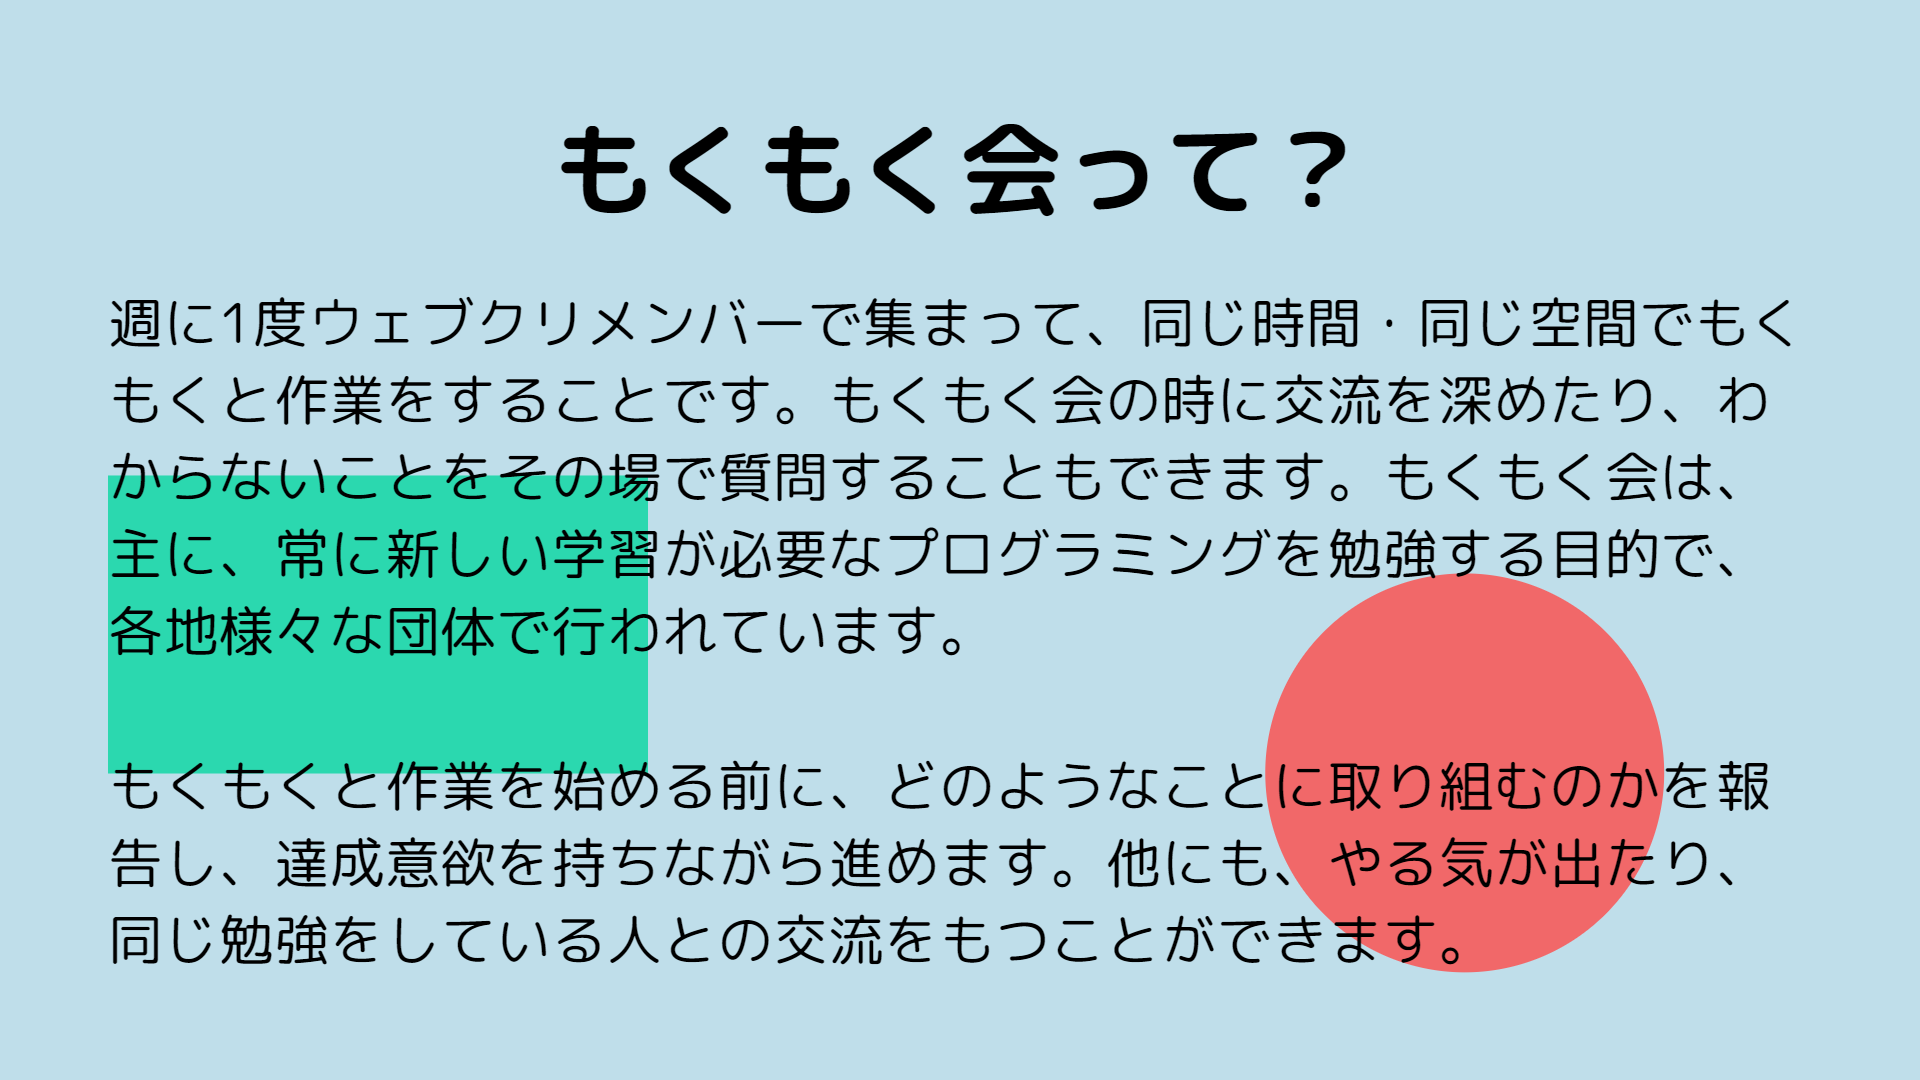
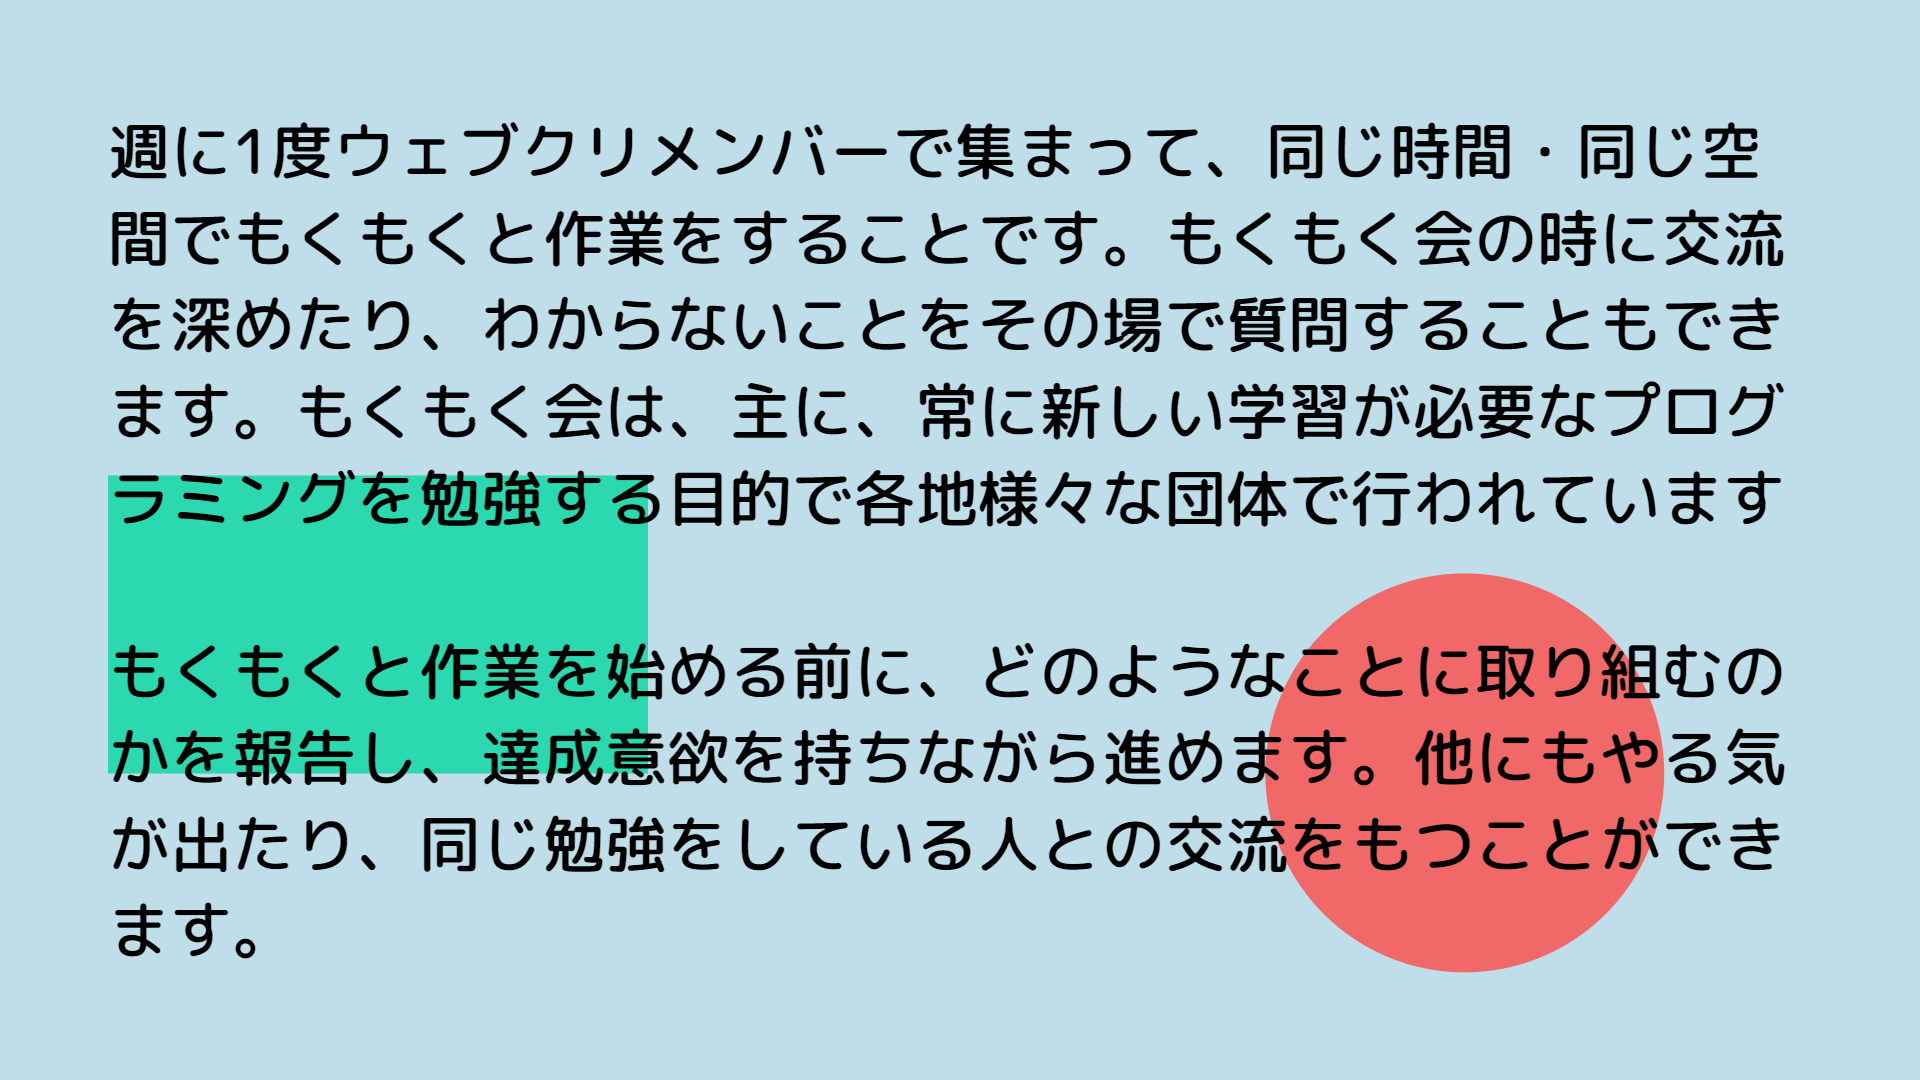
変えた

Changed region(s): [[0.0625, 0.275, 0.9375, 0.6417], [0.0625, 0.5806, 0.9375, 0.9167], [0.0312, 0.0917, 0.9375, 0.2444]]

diff --git a/css/style.css b/css/style.css
@@ -160,24 +160,29 @@ main {
 }
 
 .uebxli {
-    color: saddlebrown;
-    text-align: center;
-    font-size: 180%;
-    margin-top: 50px;
-    margin: 150px 0px;
-    
+    margin-top: 0px;
+    margin-bottom: 180px;
 }
+
+.what{
+    color:#fafafa;
+    text-align: center;
+    font-size: 3rem;
+    margin: 0px;
+    background-color:#bfdeea;
+    padding: 80px 0px 25px 0px;
+}
+
 .item img{
-    /* height: 100%; */
+    height: 100%;
     width: 100%;
     object-fit: cover;
 }
 .setumei {
     display: grid;
     grid-template-columns: 1fr 1fr;
-    gap: 0px;
-    margin-bottom: 50px;
-    margin: 0px 75px;
+    gap: 15px;
+    margin: 15px 75px 0px 75px;
 }
 
 

diff --git a/index.html b/index.html
@@ -37,7 +37,7 @@
 
     <main>
         <div class="uebxli" id="uebxli">
-            <h2>ウェブクリとは</h2>
+            <h2 class="what">ウェブクリとは?</h2>
 
             <div class="setumei">
                 <div class="item">
